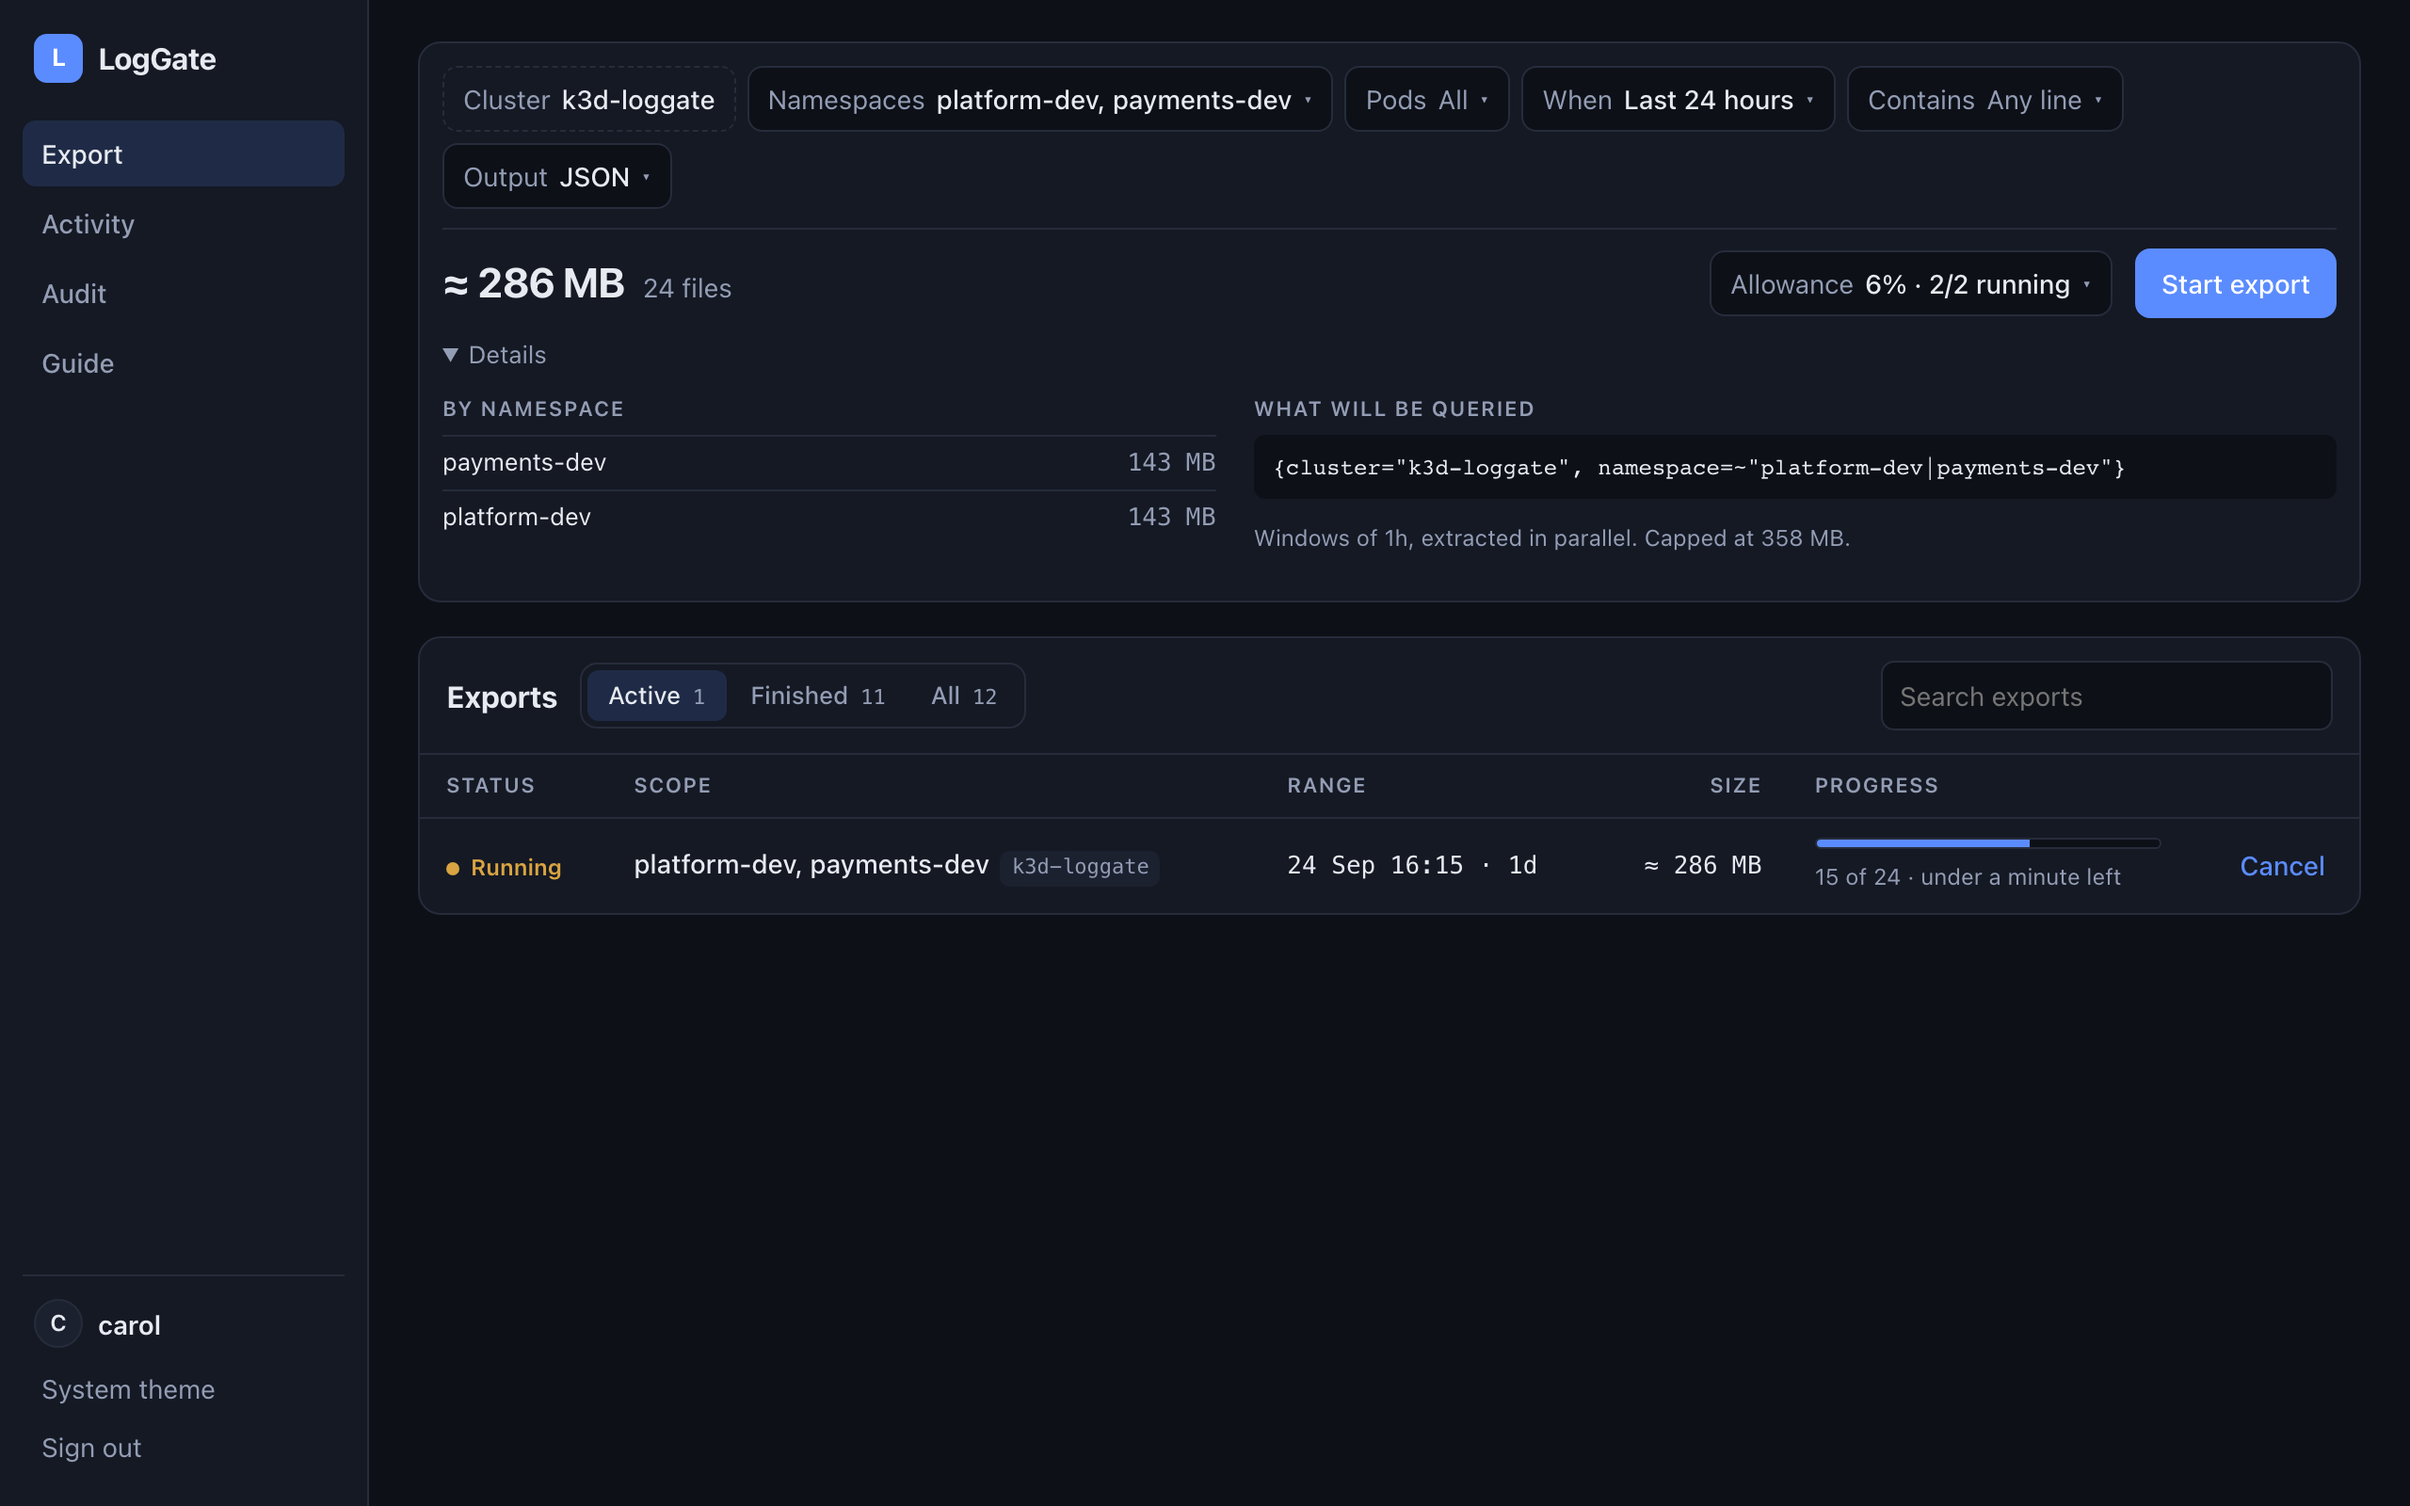
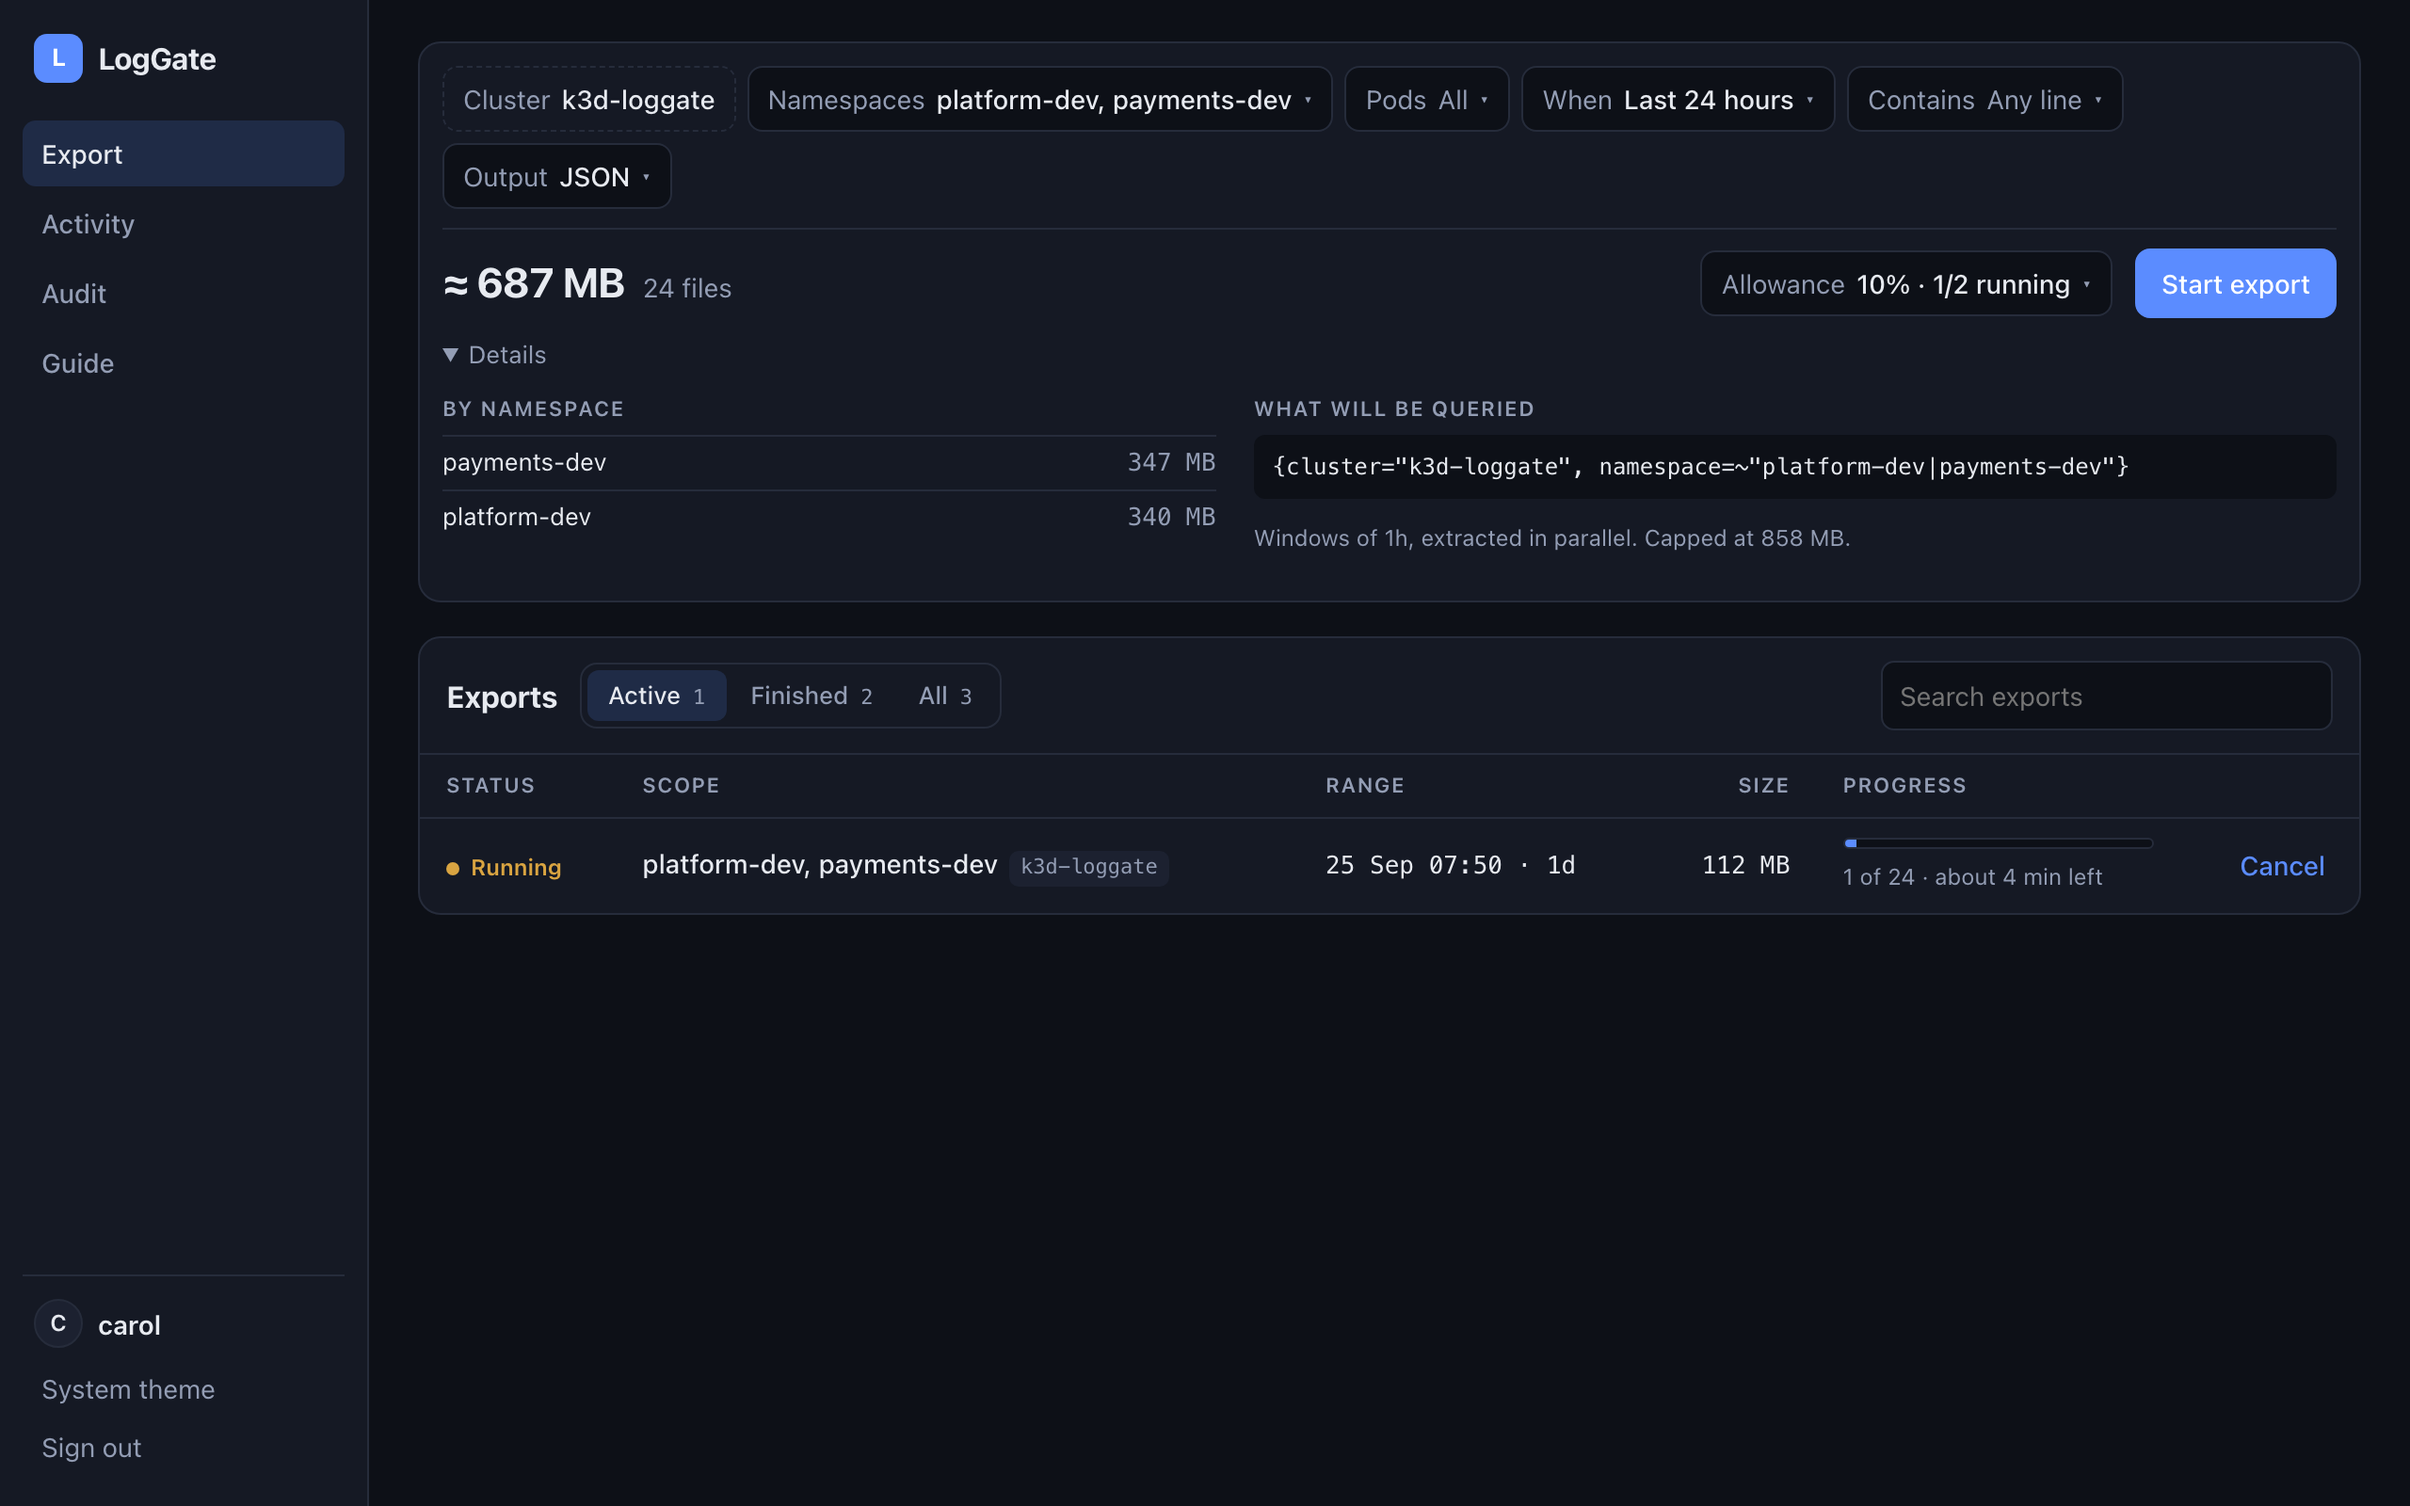
Estimate the size on request rather than as the choices change
Every change to the query, after a short pause, asked the server for an
estimate, and each estimate asks Loki for the volume of the whole range and
may sample it too. Building up a query of six choices could cost Loki six
volume queries for one number read at the end.

The size is now asked for with Estimate size. A change clears a size that
no longer describes the query and asks nothing, and a late answer for an
earlier query is dropped. Start export no longer waits for an estimate:
admission checks quota on submit either way.

An e2e test counts estimate requests: none until asked, one when asked,
none on a later change. The guide and its screenshots follow.

diff --git a/ui/src/QueryBar.tsx b/ui/src/QueryBar.tsx
@@ -1,4 +1,4 @@
-import { useEffect, useMemo, useState } from "react";
+import { useEffect, useMemo, useRef, useState } from "react";
 import {
   api,
   ApiError,
@@ -17,9 +17,6 @@ import { PRESETS, durationSeconds, rangeFor, toLocalInput } from "./ranges";
 
 /** Waits this long after the last change before asking the server. */
 const SETTLE_MS = 350;
-
-/** Waits longer before sizing, which asks Loki for a volume. */
-const ESTIMATE_SETTLE_MS = 700;
 
 const FORMATS: { value: OutputFormat; label: string; short: string; detail: string }[] = [
   {
@@ -40,8 +37,8 @@ const FORMATS: { value: OutputFormat; label: string; short: string; detail: stri
  * The whole export on one line: what, when, how, its size, and Start.
  *
  * <p>Each chip opens its own panel, so thirty clusters take no more room than
- * three. The size is asked for as the choices settle rather than on a button,
- * so the number that decides whether to start is always the current one.
+ * three. The size is estimated on request rather than as the choices change,
+ * to spare Loki, and cleared by any change so it never describes another query.
  */
 export function QueryBar({
   me,
@@ -180,27 +177,32 @@ export function QueryBar({
     [me, clusters, namespaces, podMode, pods, podPattern, lineFilter, format, from, to],
   );
 
-  // The size, asked for whenever the query settles.
+  // The size is asked for, never fetched as the choices change: each estimate
+  // asks Loki for the volume of the whole range, and sometimes samples it, so
+  // sizing every click would put load on Loki for answers nobody reads. A
+  // change only clears a size that no longer describes the query.
   const requestKey = JSON.stringify(request);
+  const latestKey = useRef(requestKey);
   useEffect(() => {
+    latestKey.current = requestKey;
     setSizing(null);
     setEstimateProblem(null);
-    if (!ready) return;
-    let current = true;
+    setEstimating(false);
+  }, [requestKey]);
+
+  async function estimate() {
+    const asked = requestKey;
     setEstimating(true);
-    const timer = setTimeout(() => {
-      api
-        .estimate(request)
-        .then((result) => current && setSizing(result))
-        .catch((e) => current && setEstimateProblem(e instanceof ApiError ? e.message : String(e)))
-        .finally(() => current && setEstimating(false));
-    }, ESTIMATE_SETTLE_MS);
-    return () => {
-      current = false;
-      clearTimeout(timer);
-    };
-    // eslint-disable-next-line react-hooks/exhaustive-deps
-  }, [requestKey, ready]);
+    setEstimateProblem(null);
+    try {
+      const result = await api.estimate(request);
+      if (latestKey.current === asked) setSizing(result);
+    } catch (e) {
+      if (latestKey.current === asked) setEstimateProblem(e instanceof ApiError ? e.message : String(e));
+    } finally {
+      if (latestKey.current === asked) setEstimating(false);
+    }
+  }
 
   async function start() {
     setStarting(true);
@@ -431,7 +433,12 @@ export function QueryBar({
           ) : !rangeValid || rangeTooLong ? (
             <span className="field-error">Fix the time range.</span>
           ) : estimateProblem ? (
-            <span className="field-error">{estimateProblem}</span>
+            <>
+              <span className="field-error">{estimateProblem}</span>
+              <button type="button" onClick={estimate} disabled={estimating}>
+                Try again
+              </button>
+            </>
           ) : sizing ? (
             <>
               <strong className="run-bytes">≈ {formatBytes(download!)}</strong>
@@ -441,7 +448,9 @@ export function QueryBar({
               </span>
             </>
           ) : (
-            <span className="quiet">{estimating ? "Sizing…" : ""}</span>
+            <button type="button" onClick={estimate} disabled={estimating} data-testid="estimate-button">
+              {estimating ? "Estimating…" : "Estimate size"}
+            </button>
           )}
         </div>
         <span className="run-spacer" />
@@ -450,7 +459,7 @@ export function QueryBar({
           type="button"
           className="primary"
           onClick={start}
-          disabled={!ready || starting || refused || sizing === null}
+          disabled={!ready || starting || refused}
         >
           {starting ? "Starting…" : "Start export"}
         </button>

diff --git a/ui/e2e/export.spec.ts b/ui/e2e/export.spec.ts
@@ -19,8 +19,9 @@ async function openChip(page: Page, name: string) {
   return page.getByTestId(`${name}-panel`);
 }
 
-/** The export's size, once it has been asked for. */
+/** Asks for the export's size, and waits for it. */
 async function sized(page: Page) {
+  await page.getByTestId("estimate-button").click();
   const estimate = page.getByTestId("estimate");
   await expect(estimate).toContainText(/≈ .*(B|KB|MB|GB)/, { timeout: 30_000 });
   return estimate;
@@ -265,6 +266,34 @@ test.describe("LogGate", () => {
     await expect(panel).toContainText("Your allowance");
     await expect(panel).toContainText("platform");
     await expect(panel).toContainText("Finished exports are kept for");
+  });
+
+  test("the size is asked for, not fetched as the choices change", async ({ page }) => {
+    // Each estimate asks Loki for a volume and may sample the range, so none
+    // is made until someone asks for it.
+    let estimates = 0;
+    page.on("request", (request) => {
+      if (request.url().includes("/api/exports/estimate")) estimates++;
+    });
+    await signIn(page, "alice");
+
+    const when = await openChip(page, "when");
+    await when.getByRole("button", { name: "Last 6 hours" }).click();
+    await page.keyboard.press("Escape");
+    await page.waitForTimeout(1500);
+    expect(estimates).toBe(0);
+    await expect(page.getByRole("button", { name: "Start export" })).toBeEnabled();
+
+    await sized(page);
+    expect(estimates).toBe(1);
+
+    // A change clears a size that no longer describes the query, and asks nothing.
+    const again = await openChip(page, "when");
+    await again.getByRole("button", { name: "Last hour" }).click();
+    await page.keyboard.press("Escape");
+    await expect(page.getByTestId("estimate-button")).toBeVisible();
+    await page.waitForTimeout(1500);
+    expect(estimates).toBe(1);
   });
 
   test("an estimate carries the quota verdict with it", async ({ page }) => {

diff --git a/ui/screenshots/tour.spec.ts b/ui/screenshots/tour.spec.ts
@@ -91,6 +91,7 @@ async function podPattern(page: Page, pattern: string) {
 }
 
 async function sized(page: Page) {
+  await page.getByTestId("estimate-button").click();
   await expect(page.getByTestId("estimate")).toContainText(/≈/, { timeout: 30_000 });
 }
 

diff --git a/docs/USER-GUIDE.md b/docs/USER-GUIDE.md
@@ -88,8 +88,8 @@ LogGate cannot see any of them directly.
   and there is a filter box and a *Select all* for when you really mean every
   cluster.
 - **Namespaces.** Tick the ones you want, or none for every namespace in the
-  clusters you chose. The form says which you are about to get, and the
-  estimate shows the size before anything runs.
+  clusters you chose. The form says which you are about to get, and
+  *Estimate size* shows the size before anything runs.
 - **Budget.** With no teams to charge, your exports count against your own
   allowance.
 
@@ -141,11 +141,13 @@ and *Clear*. Escape or *Done* closes it.
 
 ## The size, before it runs
 
-As soon as your choices are complete, LogGate asks Loki how much data they
-cover, **before any of it is read**, and shows the answer beside **Start
-export**. Change anything and it is asked again, so the number always matches
-what is on screen. This is the moment to find out an export is 40 GB rather
-than after waiting for it.
+**Estimate size** asks Loki how much data your choices cover, **before any of
+it is read**, and shows the answer beside **Start export**. It is asked for
+rather than automatic, because each estimate is work for Loki. Change anything
+afterwards and the size is cleared rather than left describing a different
+query. This is the moment to find out an export is 40 GB rather than after
+waiting for it; you can also start without it, and quota is checked either
+way.
 
 - **The size to download**, in large type, and how many files it makes. With
   a *Contains* filter or chosen pods, it is extrapolated from a sample of the
